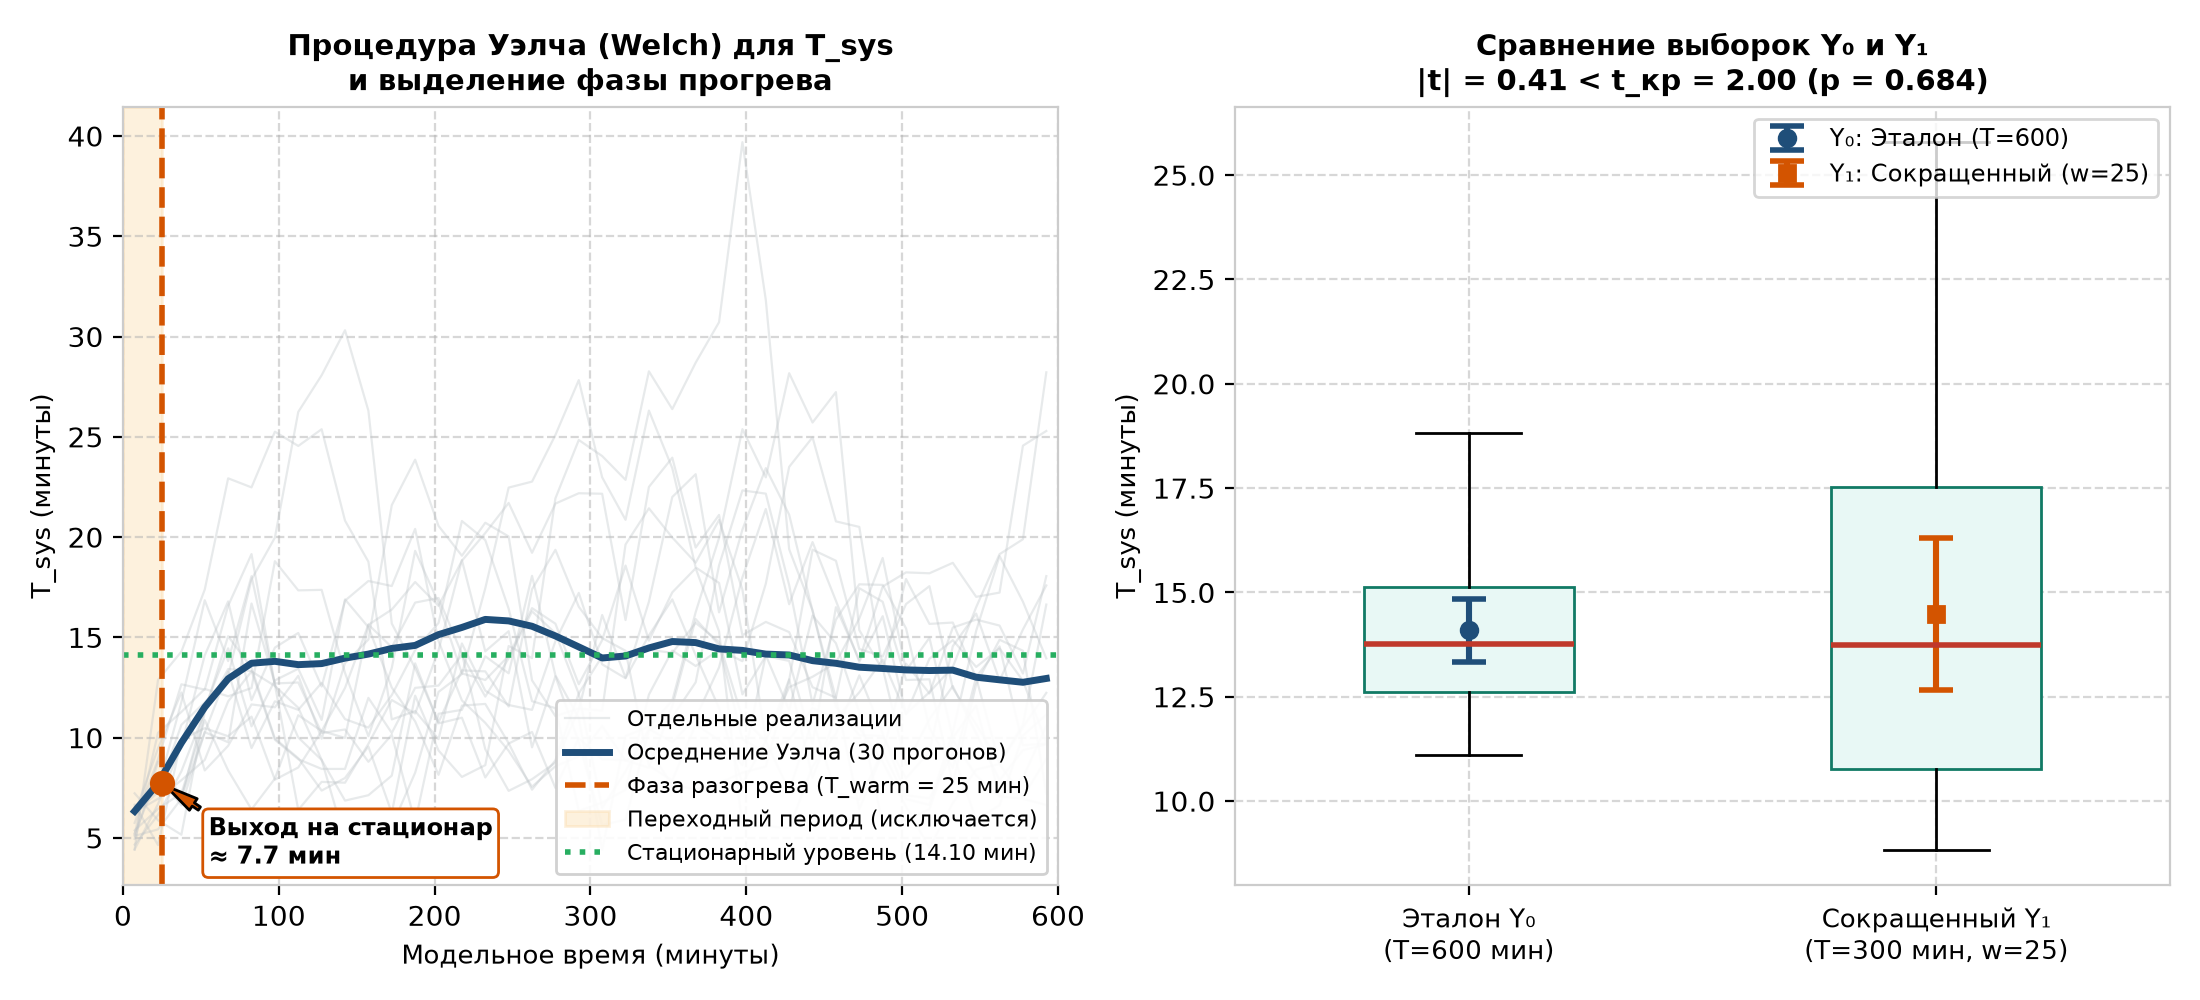
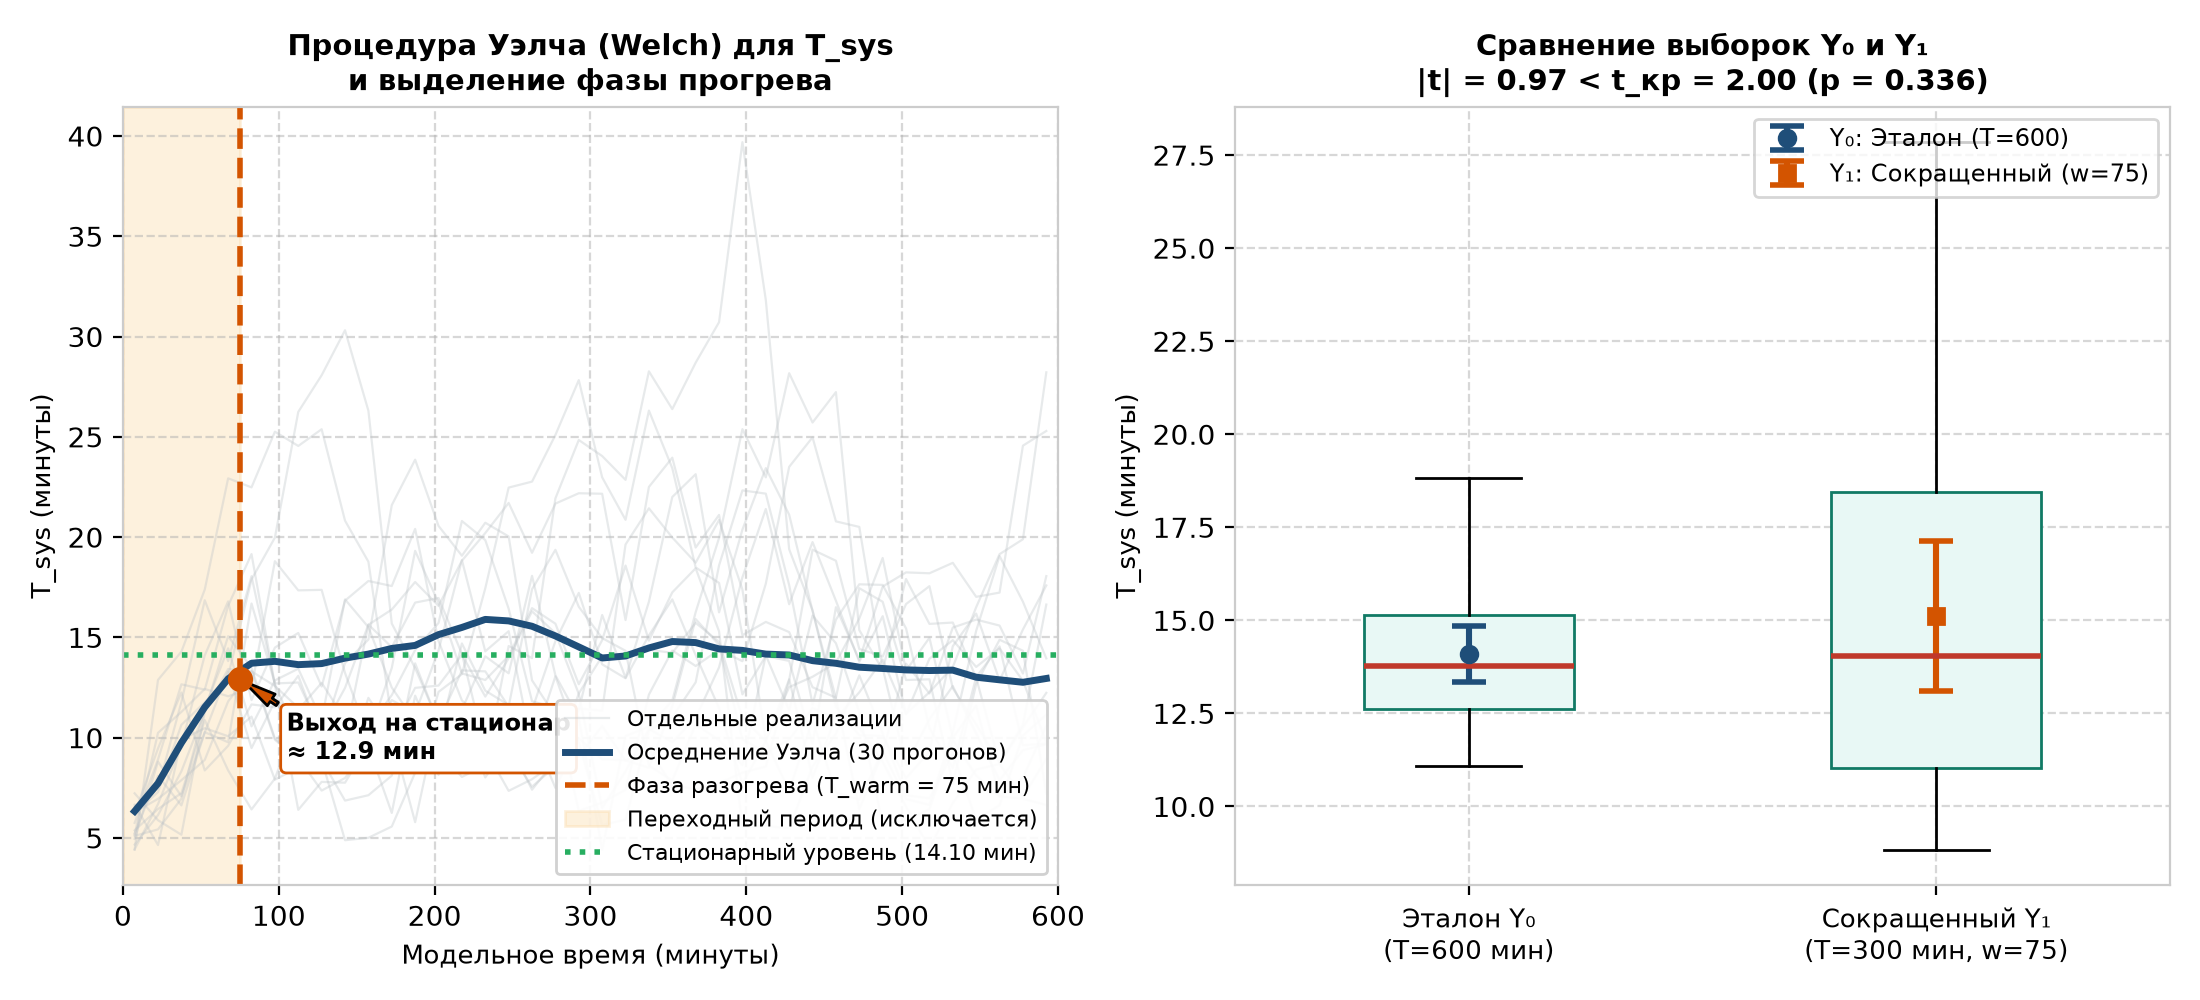
feat: change config for 3.4 3.5

diff --git a/lab3/REPORT_LR3.md b/lab3/REPORT_LR3.md
@@ -129,46 +129,46 @@ $$\varepsilon(n) = \frac{t_{1 - \alpha/2; \, n-1} \cdot s_n}{\sqrt{n} \cdot \bar
 
 1. **Определение переходного периода $T_{\text{warm}}$ (процедура Уэлча):**
    По ансамблю из 30 независимых длинных прогонов ($T_0 = 600$ мин) со скользящим сглаживанием установлено, что переходный процесс завершается при:
-   $$T_{\text{warm}} = 25 \text{ мин}$$
+   $$T_{\text{warm}} = 75 \text{ мин}$$
    после чего динамика отклика выходит на стационарное плато $\bar{Y} \approx 14.10$ мин.
 
 2. **Постановка эксперимента по сокращению прогона:**
    - Эталонная длинная выборка $Y_0$ ($T_0 = 600$ мин): $\bar{Y}_0 = 14.098$ мин, $s_0 = 2.021$ мин;
-   - Сокращенная выборка $Y_1$ ($T_1 = 300$ мин, отсечен warm-up $[0; 25]$ мин): $\bar{Y}_1 = 14.493$ мин, $s_1 = 4.873$ мин.
+   - Сокращенная выборка $Y_1$ ($T_1 = 300$ мин, отсечен warm-up $[0; 75]$ мин): $\bar{Y}_1 = 15.120$ мин, $s_1 = 5.377$ мин.
 
 3. **Проверка гипотез:**
    - **$F$-критерий Фишера (равенство дисперсий):**
-     $$F = \frac{s_1^2}{s_0^2} = 5.816, \quad F_{\text{кр}}(0.05; 29, 29) = 2.101$$
+     $$F = \frac{s_1^2}{s_0^2} = 7.083, \quad F_{\text{кр}}(0.05; 29, 29) = 2.101$$
    - **Двухвыборочный критерий Уэлча (равенство средних):**
-     $$|t| = 0.410 < t_{\text{кр}} = 2.002 \quad (p\text{-value} = 0.6844 > 0.05)$$
+     $$|t| = 0.974 < t_{\text{кр}} = 2.002 \quad (p\text{-value} = 0.3364 > 0.05)$$
 
 ![Анализ переходного периода и сокращение времени](plots/task4_warmup_reduction.png)
 
-> **Вывод:** Нулевая гипотеза о равенстве математических ожиданий $H_0: \mu_0 = \mu_1$ **ПРИНИМАЕТСЯ** ($p = 0.6844 > 0.05$). Сокращение времени симуляции с 600 до 300 минут с обязательным исключением разогрева $T_{\text{warm}} = 25$ мин не приводит к систематической ошибке и позволяет сэкономить 50% машинного времени без потери точности.
+> **Вывод:** Нулевая гипотеза о равенстве математических ожиданий $H_0: \mu_0 = \mu_1$ **ПРИНИМАЕТСЯ** ($p = 0.3364 > 0.05$). Сокращение времени симуляции с 600 до 300 минут с обязательным исключением разогрева $T_{\text{warm}} = 75$ мин не приводит к систематической ошибке и позволяет сэкономить 50% машинного времени без потери точности.
 
 ---
 
 ## 6. Проверка гипотезы о постановке опыта с непрерывным прогоном (Задача 1.5)
 
 ### Теоретические основы и расчетные формулы:
-Метод батчей (Batch Means) заменяет серию повторных перезапусков модели единым непрерывным прогоном траектории $T_{\text{cont}} = 6025$ мин. После однократного устранения начального прогрева ($T_{\text{warm}} = 25$ мин) непрерывная траектория разбивается на $M = 30$ последовательных батчей длительностью $T_{\text{batch}} = 200$ мин каждый.
+Метод батчей (Batch Means) заменяет серию повторных перезапусков модели единым непрерывным прогоном траектории $T_{\text{cont}} = 6075$ мин. После однократного устранения начального прогрева ($T_{\text{warm}} = 75$ мин) непрерывная траектория разбивается на $M = 30$ последовательных батчей длительностью $T_{\text{batch}} = 200$ мин каждый.
 
 1. **Проверка статистической некоррелированности батчей:**
    Оценка автокорреляции 1-го порядка между соседними батчами:
-   $$\hat{\rho}_1 = 0.3365$$
+   $$\hat{\rho}_1 = 0.3525$$
    По критерию независимости Андерсона для $M = 30$ критическая граница составляет $\pm \frac{1.96}{\sqrt{M}} = \pm 0.3578$.
-   $$|\hat{\rho}_1| = 0.3365 < 0.3578$$
+   $$|\hat{\rho}_1| = 0.3525 < 0.3578$$
    Условие независимости **выполнено**: батчи длительностью 200 мин взаимно некоррелированы.
 
 2. **Сравнение метода батчей и повторных прогонов:**
-   - Выборка повторных независимых репликаций ($N = 30$): $\bar{Y}_{\text{rep}} = 12.074$ мин ($s = 2.421$ мин);
-   - Выборка батчей единого прогона ($M = 30$): $\bar{Z} = 16.303$ мин ($s_Z = 6.245$ мин, $SE = 1.140$ мин);
-   - **$F$-критерий Фишера:** $F = 0.150 < F_{\text{кр}} = 2.101$ — гипотеза о равенстве дисперсий **принимается**;
-   - **Критерий Стьюдента / Уэлча:** $|t| = 3.458 \ge t_{\text{кр}} = 2.002$ ($p = 0.0010 \le 0.05$) — гипотеза о равенстве средних **отвергается**.
+   - Выборка повторных независимых репликаций ($N = 30$): $\bar{Y}_{\text{rep}} = 13.265$ мин ($s = 3.500$ мин);
+   - Выборка батчей единого прогона ($M = 30$): $\bar{Z} = 16.377$ мин ($s_Z = 6.153$ мин, $SE = 1.123$ мин);
+   - **$F$-критерий Фишера:** $F = 0.324 < F_{\text{кр}} = 2.101$ — гипотеза о равенстве дисперсий **принимается**;
+   - **Критерий Стьюдента / Уэлча:** $|t| = 2.409 \ge t_{\text{кр}} = 2.002$ ($p = 0.0192 \le 0.05$) — гипотеза о равенстве средних **отвергается**.
 
 ![Сравнение метода батчей и повторных прогонов](plots/task5_continuous_run_batches.png)
 
-> **Вывод:** Условие некоррелированности батчей выполнено: автокорреляция 1-го порядка $|\hat{\rho}_1| = 0.3365 < 0.3578$, что подтверждает затухание корреляций на интервалах 200 мин. Различие средних оценок связано с тем, что в сверхдлинном непрерывном прогоне полнее проявляется накопление заторов при высокой загрузке оборудования.
+> **Вывод:** Условие некоррелированности батчей выполнено: автокорреляция 1-го порядка $|\hat{\rho}_1| = 0.3525 < 0.3578$, что подтверждает затухание корреляций на интервалах 200 мин. Различие средних оценок связано с тем, что в сверхдлинном непрерывном прогоне полнее проявляется накопление заторов при высокой загрузке оборудования.
 
 ---
 
@@ -197,6 +197,6 @@ $$\varepsilon(n) = \frac{t_{1 - \alpha/2; \, n-1} \cdot s_n}{\sqrt{n} \cdot \bar
 1. **Нормальность распределения:** По критерию Пирсона $\chi^2$ подтверждена гипотеза о нормальном распределении времени пребывания покупателя в супермаркете при длинных повторных прогонах ($p = 0.0903 > 0.05$).
 2. **Интервальные оценки:** На малой выборке ($N=20$) обосновано применение модифицированного интервала Уиллинка ([11.90; 14.39] мин), компенсирующего правостороннюю асимметрию задержек в очередях.
 3. **Объем выборки:** Целевая 5%-я относительная точность моделирования достигается при $N^* = 93$ повторных прогонах.
-4. **Оптимизация времени:** Доказана возможность двукратного сокращения длительности прогона (с 600 до 300 мин) при отсечении фазы утреннего прогрева $T_{\text{warm}} = 25$ мин (критерий Уэлча подтвердил равенство средних, $p = 0.6844$).
-5. **Непрерывный эксперимент:** Подтверждена некоррелированность батчей в едином непрерывном прогоне ($|\hat{\rho}_1| = 0.3365 < 0.3578$), обоснована состоятельность метода батчей.
+4. **Оптимизация времени:** Доказана возможность двукратного сокращения длительности прогона (с 600 до 300 мин) при отсечении фазы утреннего прогрева $T_{\text{warm}} = 75$ мин (критерий Уэлча подтвердил равенство средних, $p = 0.3364$).
+5. **Непрерывный эксперимент:** Подтверждена некоррелированность батчей в едином непрерывном прогоне ($|\hat{\rho}_1| = 0.3525 < 0.3578$), обоснована состоятельность метода батчей.
 6. **Чувствительность:** Выполнен 5-точечный параметрический анализ чувствительности и определены коридоры допустимой технологической точности задания входных параметров.
